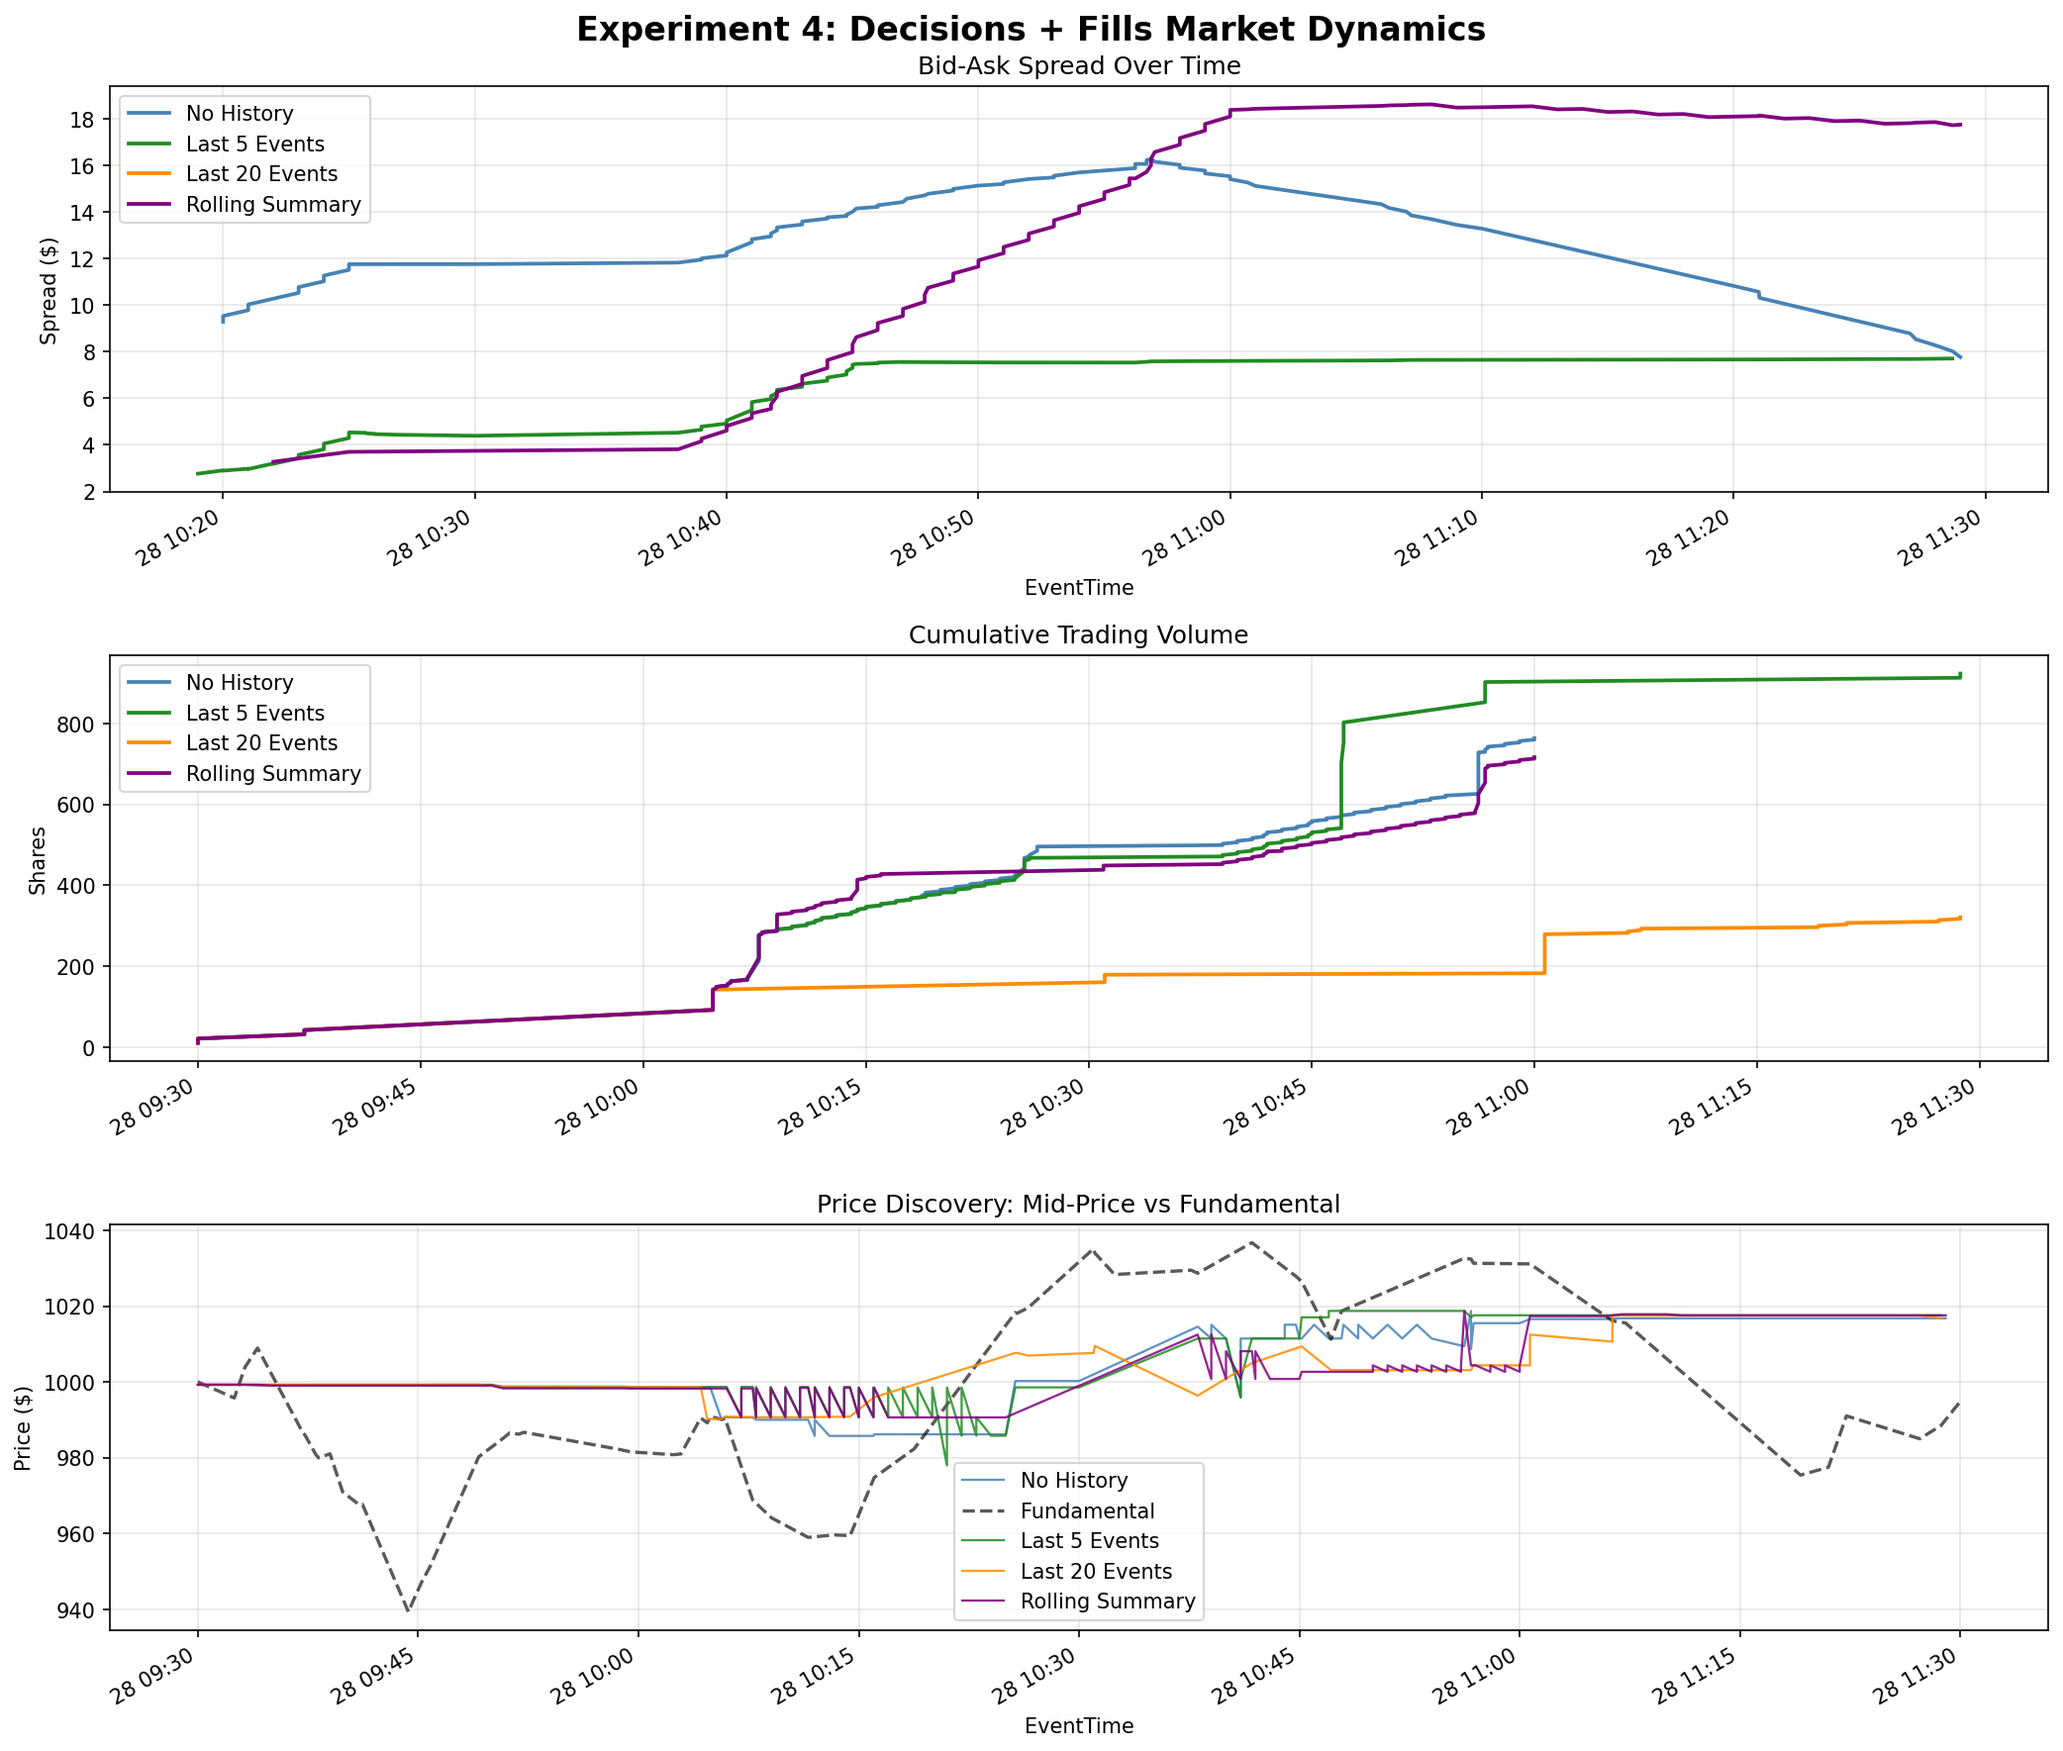
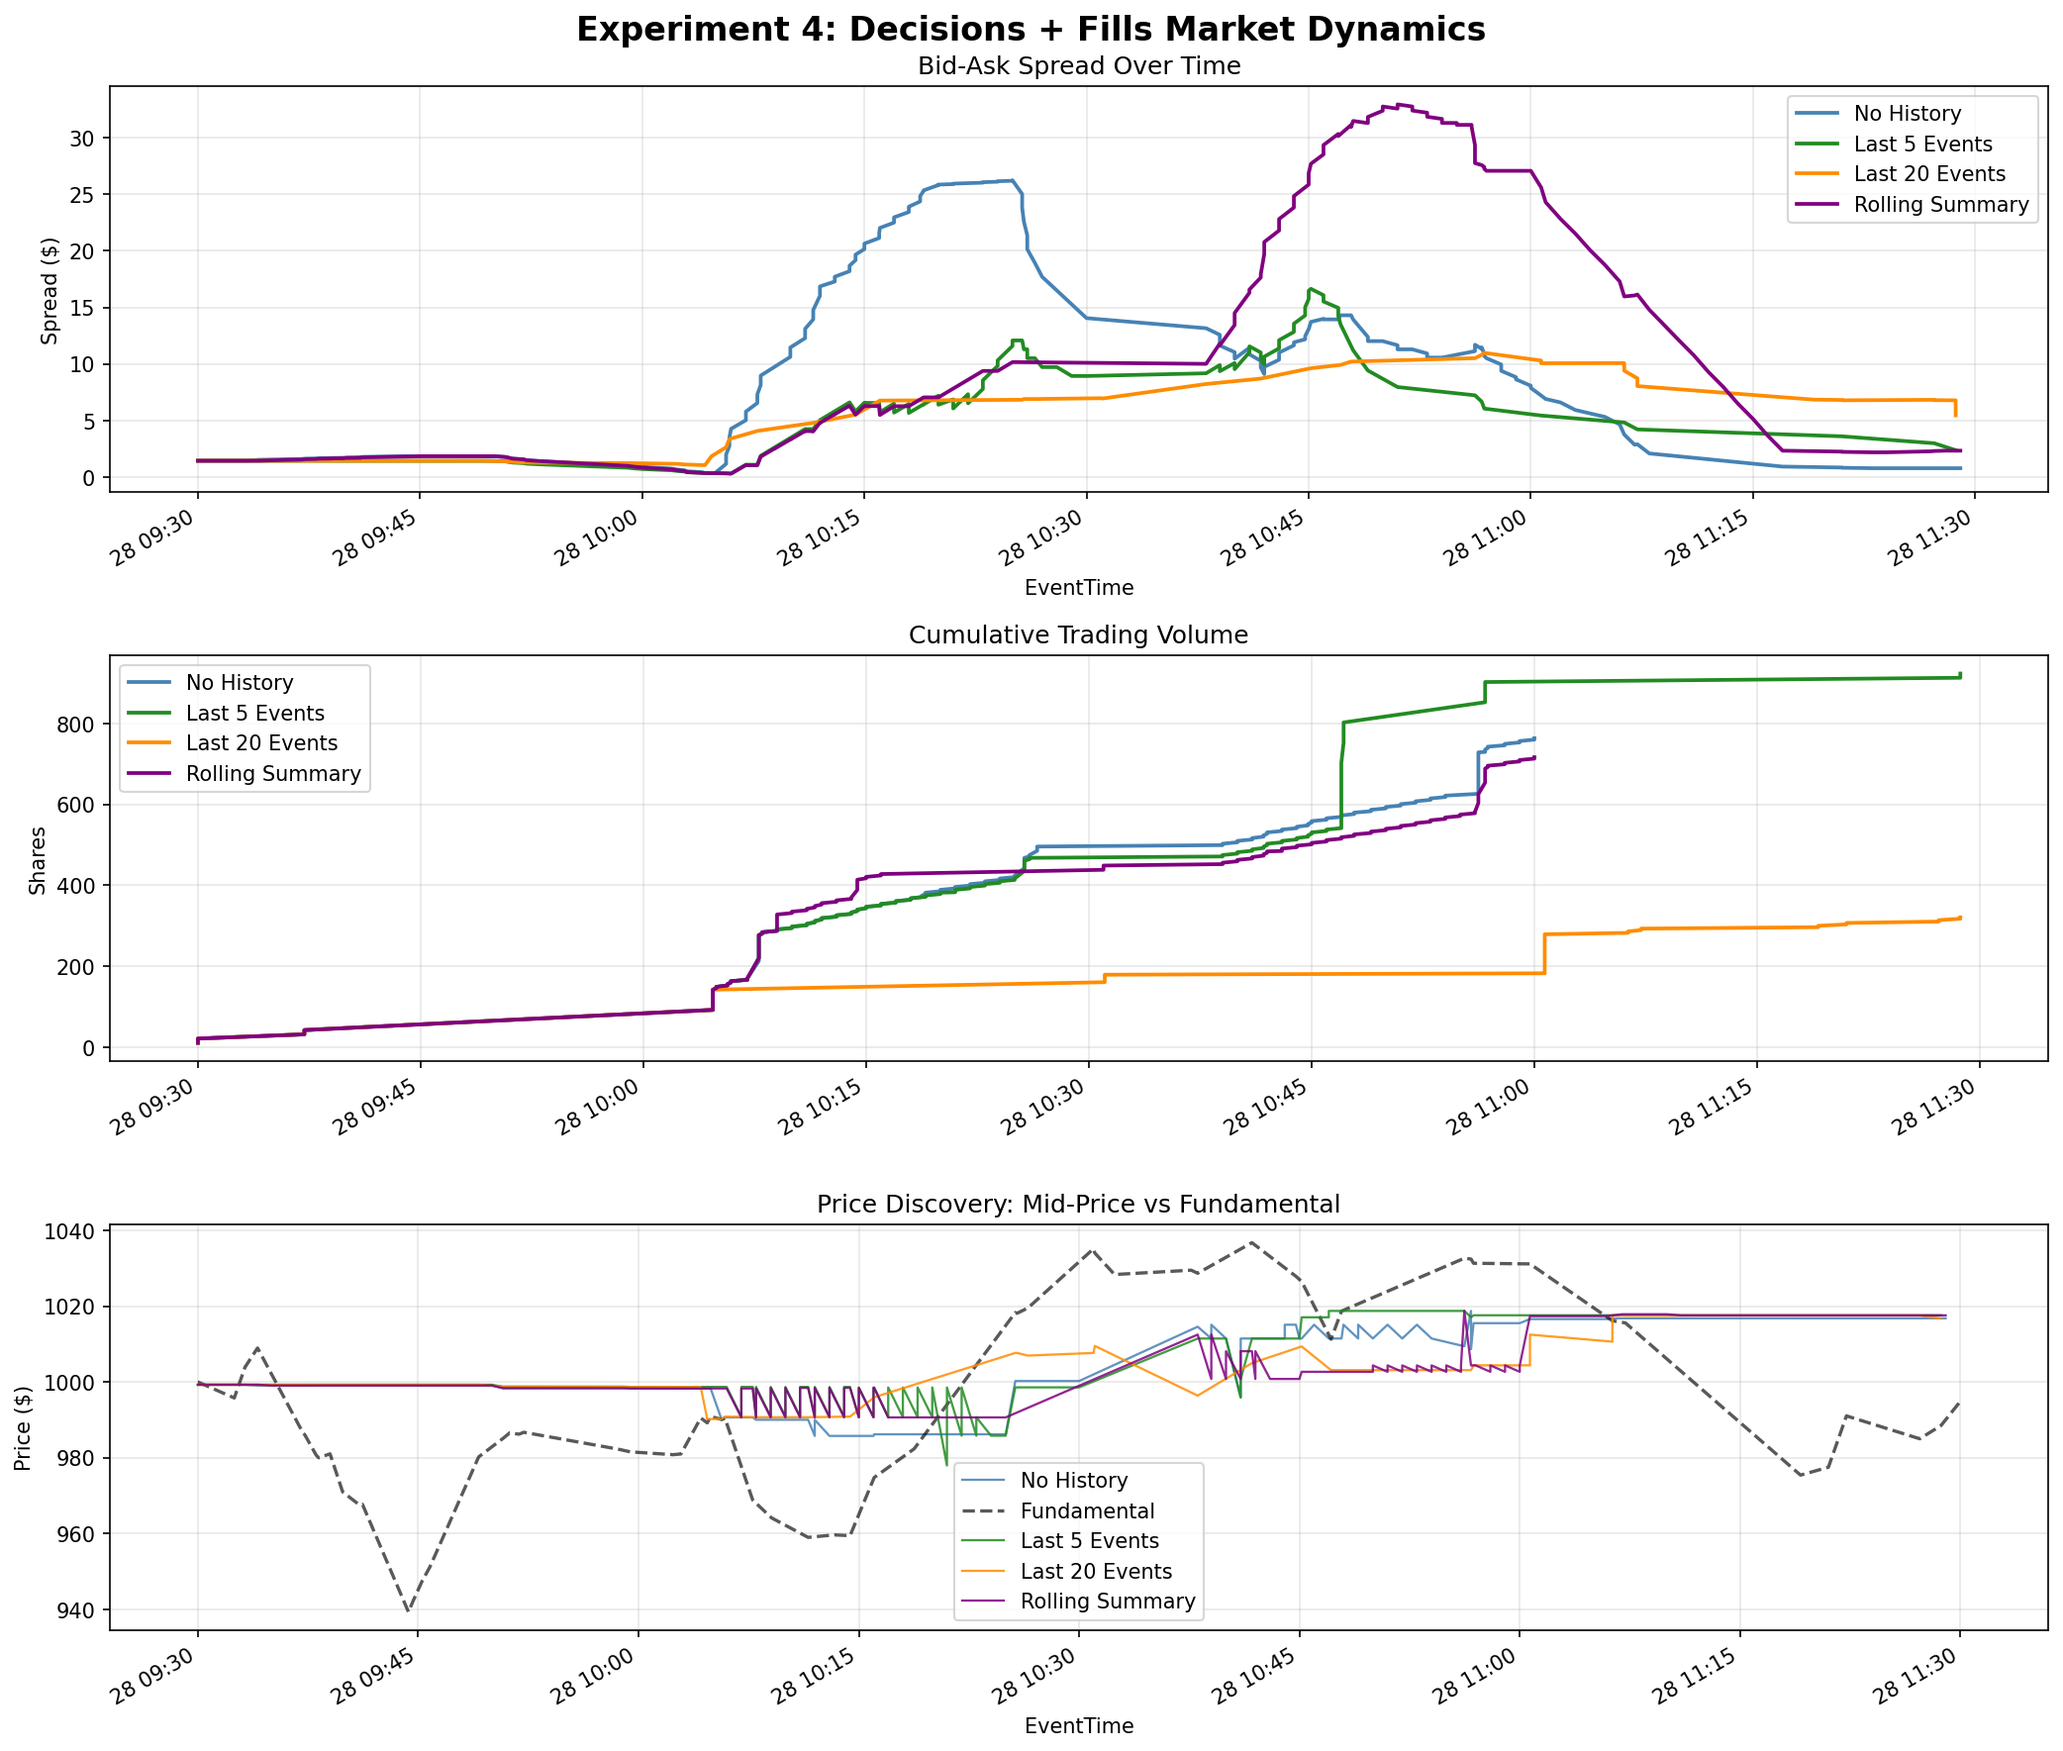
Fix spread rolling window plots

diff --git a/abides/analyze_exp1.py b/abides/analyze_exp1.py
@@ -281,11 +281,14 @@ def main():
             spread_dollars = spread / 100.0
             spread_dollars.plot(ax=axes[0], color='steelblue', linewidth=0.5, alpha=0.7)
             # Add rolling mean
-            rolling_spread = spread_dollars.rolling(window=min(100, len(spread_dollars))).mean()
+            rolling_spread = spread_dollars.rolling(
+                window=min(20, len(spread_dollars)),
+                min_periods=1,
+            ).mean()
             rolling_spread.plot(ax=axes[0], color='darkred', linewidth=2, label='Rolling Mean')
             axes[0].set_title('Bid-Ask Spread Over Time')
             axes[0].set_ylabel('Spread ($)')
-            axes[0].legend(['Raw Spread', 'Rolling Mean (100)'])
+            axes[0].legend(['Raw Spread', 'Rolling Mean (20)'])
             axes[0].grid(True, alpha=0.3)
             has_plot = True
 

diff --git a/abides/analyze_exp4_full.py b/abides/analyze_exp4_full.py
@@ -220,7 +220,7 @@ def save_group_market_plot(root, metrics, group_key, group_label, output):
         fund_path = os.path.join(log_dir, "fundamental_JPM.bz2")
         fund = pd.read_pickle(fund_path, compression="bz2") if os.path.exists(fund_path) else None
         spread, volume, mid, fundamental = market_series(exchange, fund)
-        spread.rolling(window=min(100, len(spread))).mean().plot(
+        spread.rolling(window=min(20, len(spread)), min_periods=1).mean().plot(
             ax=axes[0], color=color, linewidth=1.8, label=row["arm_label"]
         )
         volume.plot(ax=axes[1], color=color, linewidth=1.8, label=row["arm_label"])
